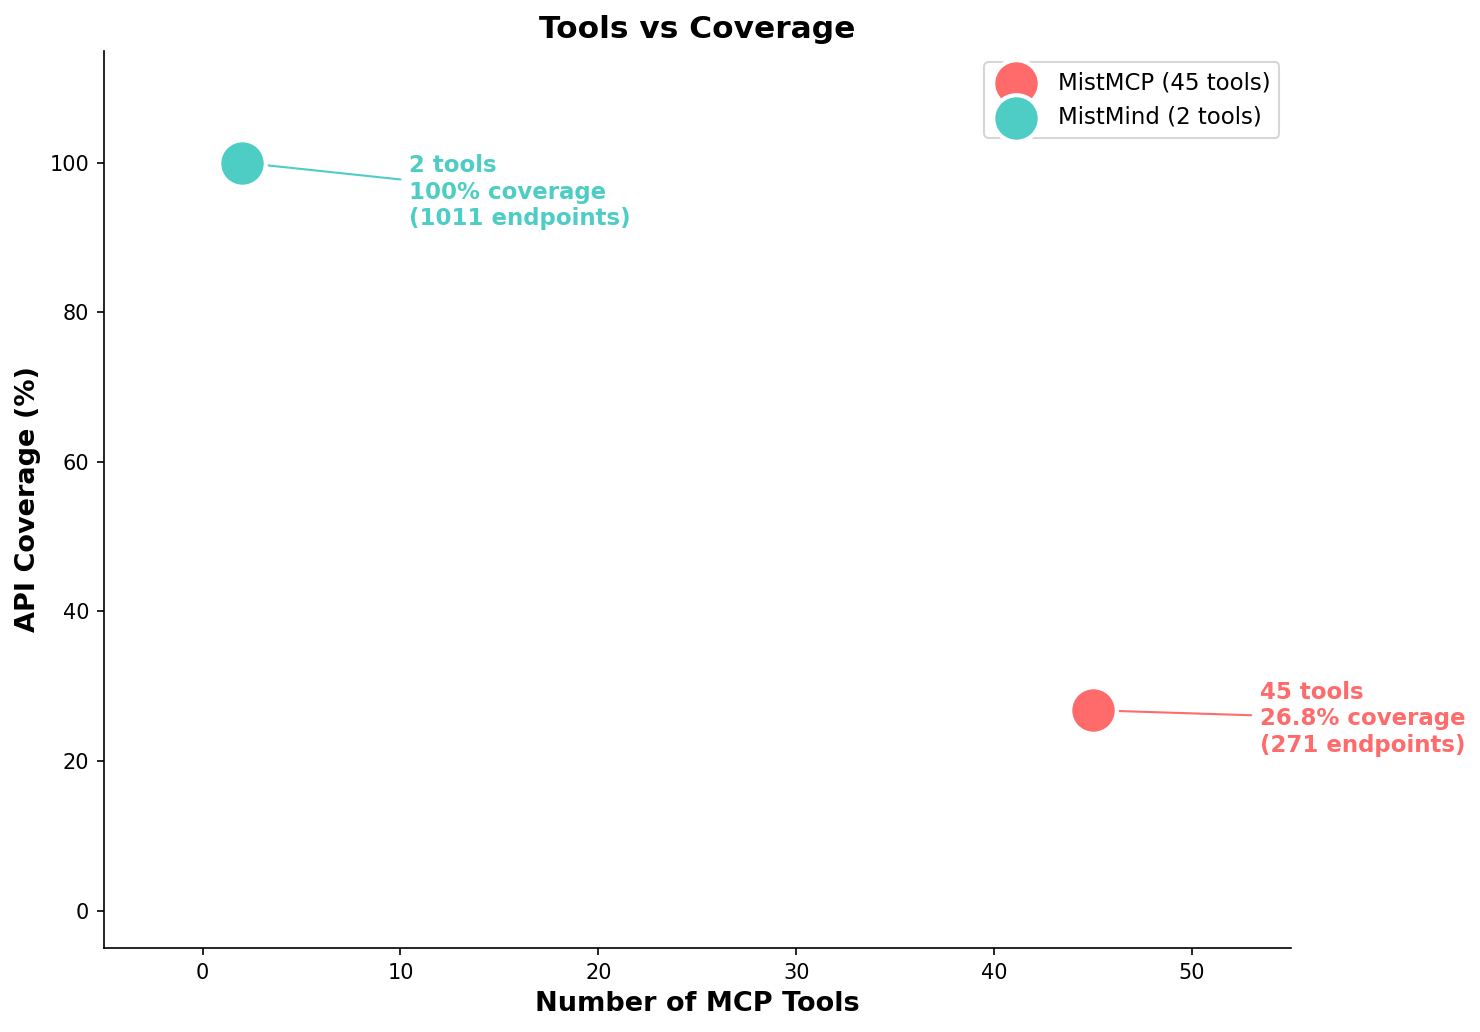
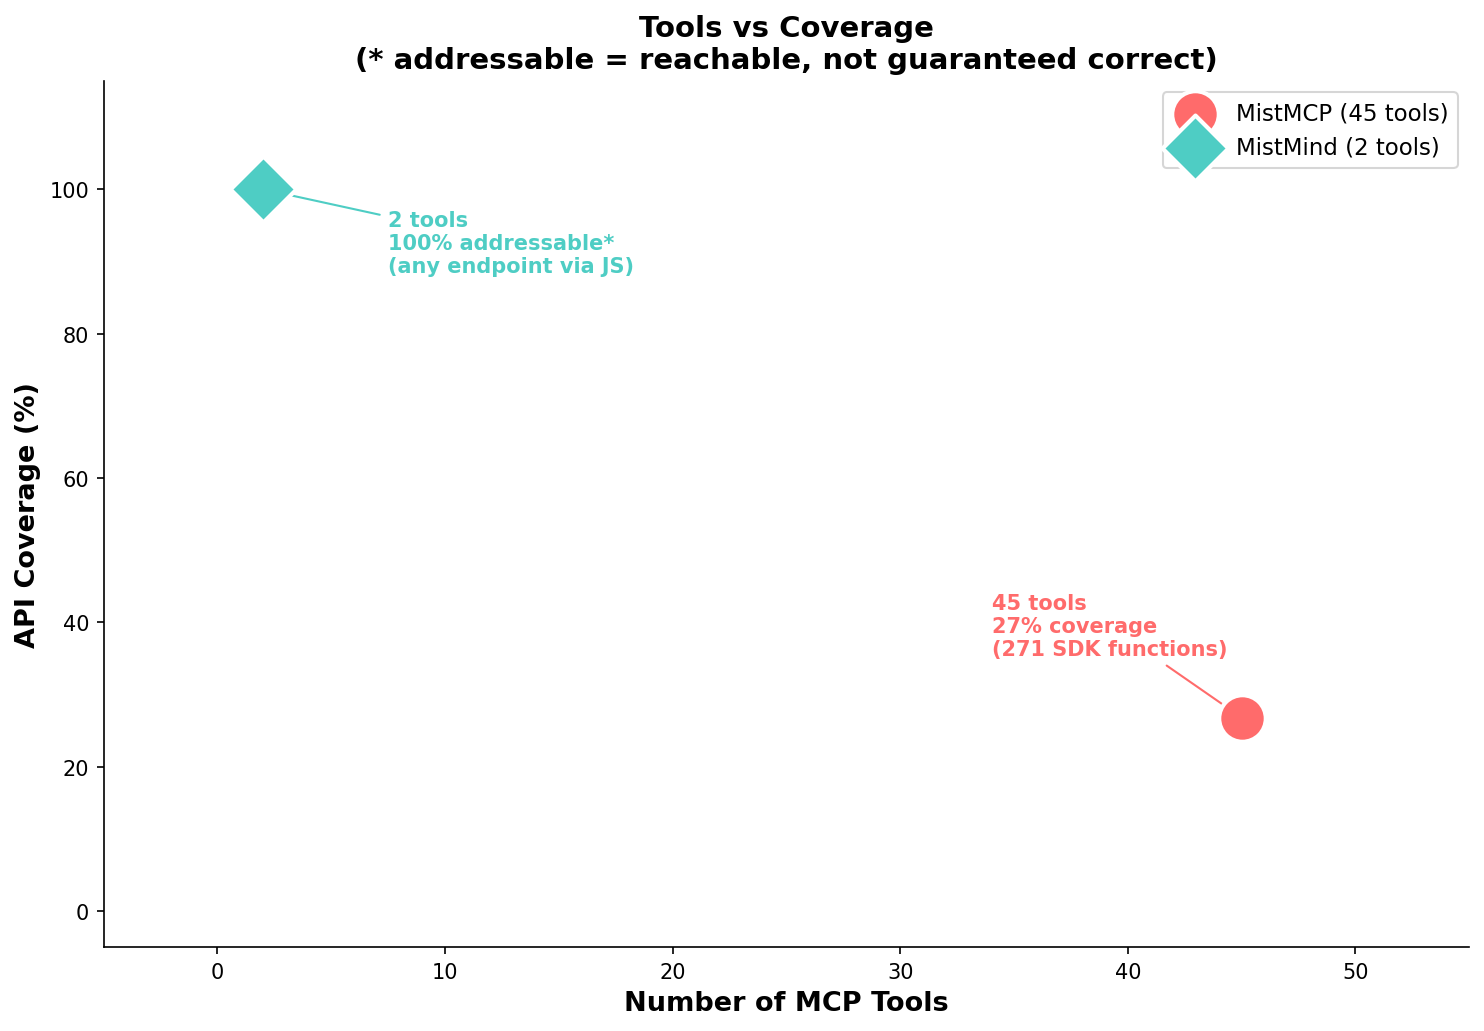
red team audit: honest benchmarks with caveats and corrections
CORRECTIONS:
- MistMind tokens: 1,531 (was 1,324 — now from exact server.py payload)
- Token ratio: ~5x (was 6.1x)
- Coverage: now says 'addressable' not 'covered' (honest distinction)
- Added 'Typed Parameters' row where tmunzer WINS
- Round trips: 'depends on use case' not blanket winner

CAVEATS ADDED:
- tmunzer token estimate is conservative (real likely 9-12K)
- 'addressable' footnote: LLM must write correct JS, no validation
- tmunzer advantages section: typed params, domain logic, lower latency
- Security tests: clarified 127/233 are real Deno sandbox tests

HONESTY:
- Summary chart now includes 'Typed Params' category (tmunzer=100, us=20)
- Not claiming 'strictly better' — different tradeoffs

diff --git a/docs/benchmarks/benchmark.html b/docs/benchmarks/benchmark.html
@@ -37,12 +37,12 @@
 <div class="grid">
 
   <div class="card">
-    <h2>📊 Token Usage (6.1x savings)</h2>
+    <h2>📊 Token Usage (~5x savings)</h2>
     <img src="chart1_tokens.png" alt="Token comparison">
   </div>
 
   <div class="card">
-    <h2>🎯 API Coverage (3.7x more)</h2>
+    <h2>🎯 API Coverage (100% addressable)</h2>
     <img src="chart2_coverage.png" alt="Coverage comparison">
   </div>
 
@@ -73,21 +73,27 @@
       </tr>
       <tr>
         <td>Initial Tokens</td>
-        <td>8,113</td>
-        <td>1,324</td>
-        <td><span class="badge badge-green">MistMind (6.1x fewer)</span></td>
+        <td>~8,100+ (likely higher with enums/constraints)</td>
+        <td>1,531</td>
+        <td><span class="badge badge-green">MistMind (~5x fewer)</span></td>
       </tr>
       <tr>
         <td>API Coverage</td>
-        <td>271 endpoints (26.8%)</td>
-        <td>1,011 endpoints (100%)</td>
-        <td><span class="badge badge-green">MistMind (3.7x more)</span></td>
+        <td>271 SDK functions (26.8%)</td>
+        <td>1,011 endpoints addressable*</td>
+        <td><span class="badge badge-green">MistMind (broader reach)</span></td>
+      </tr>
+      <tr>
+        <td>Typed Parameters</td>
+        <td class="green">Yes (Pydantic validation)</td>
+        <td class="red">No (raw JS)</td>
+        <td><span class="badge badge-red">MistMCP (more reliable per-call)</span></td>
       </tr>
       <tr>
         <td>Round Trips</td>
         <td>1-2</td>
-        <td>2-3</td>
-        <td><span class="badge badge-yellow">MistMCP (1 fewer)</span></td>
+        <td>2-3 (but batches via Promise.all)</td>
+        <td><span class="badge badge-yellow">Depends on use case</span></td>
       </tr>
       <tr>
         <td>Maintenance</td>
@@ -103,8 +109,8 @@
       </tr>
       <tr>
         <td>Security Tests</td>
-        <td>Standard</td>
-        <td>233 tests (red team audits)</td>
+        <td>Standard (not published)</td>
+        <td>233 tests, 127 real Deno sandbox</td>
         <td><span class="badge badge-green">MistMind</span></td>
       </tr>
       <tr>
@@ -113,6 +119,16 @@
         <td>0 (reads from spec at runtime)</td>
         <td><span class="badge badge-green">MistMind</span></td>
       </tr>
+    </table>
+  </div>
+
+  <div class="card full-width" style="border-color: #d29922;">
+    <h2 style="color: #d29922;">⚖ Honest Caveats</h2>
+    <table>
+      <tr><td>* <strong>addressable</strong> = LLM can reach any endpoint via JS, but must write correct code. No typed params or validation — the LLM can get it wrong.</td></tr>
+      <tr><td><strong>tmunzer advantages:</strong> Typed Pydantic parameters, domain-specific logic (derived configs, template resolution), lower latency for known endpoints (no search step).</td></tr>
+      <tr><td><strong>MistMind advantages:</strong> Lower token cost, broader coverage, works on any OpenAPI 3.x REST spec, auto-maintenance, Promise.all batching.</td></tr>
+      <tr><td><strong>Token estimates:</strong> tmunzer number is conservative (our regex parse). Real FastMCP payload includes enum values, JSON Schema constraints, defaults — likely 9,000-12,000 tokens.</td></tr>
     </table>
   </div>
 
